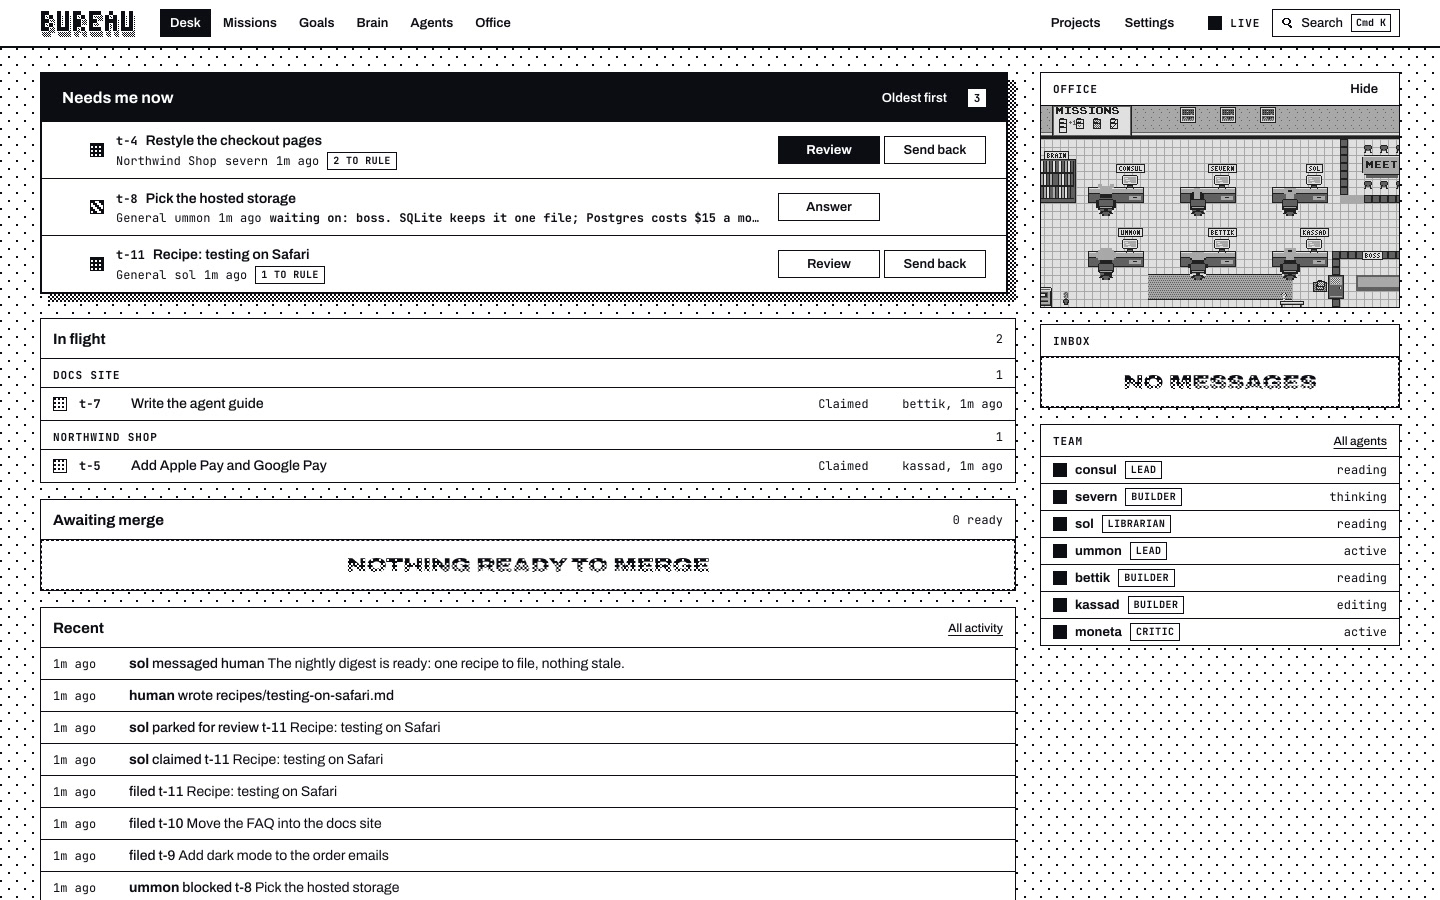
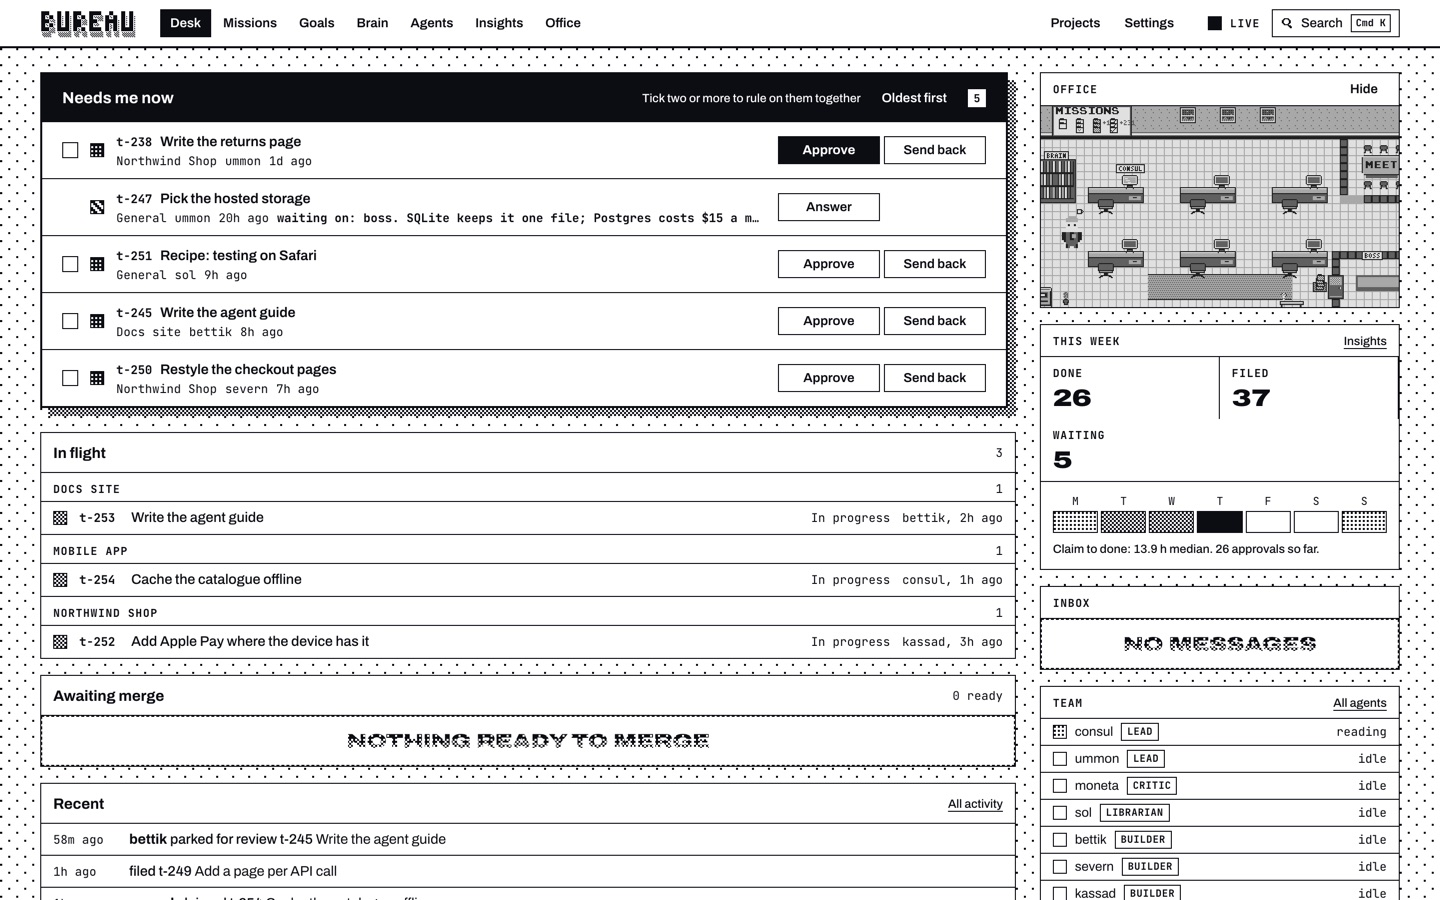
0.5.6
Insights and a look of your own, released. The README shows the Desk, the
four looks and Insights on a demo hub with made-up data, and the stats call;
hub/.env.example names BUREAU_TZ.

diff --git a/hub/version.js b/hub/version.js
@@ -1,3 +1,3 @@
 // version.js: the hub's release version. Bump it with each CHANGELOG.md release.
 'use strict';
-module.exports = { VERSION: '0.5.5' };
+module.exports = { VERSION: '0.5.6' };

diff --git a/README.md b/README.md
@@ -20,13 +20,13 @@ Models come and go. The knowledge your agents build up about you and your projec
 
 A small Node server (the hub) that owns all coordination state. Every agent, dashboard, and mirror talks to it over one plain HTTP API.
 
-<img src="docs/media/desk-light.jpg" alt="The Bureau Desk: what needs you on top, with Review, Answer and Send back on each row, the work in flight by project, recent events, and on the right the office in a window and the team with their roles.">
+<img src="docs/media/desk-light.jpg" alt="The Bureau Desk: what needs you on top, with Approve, Answer and Send back on each row, the work in flight by project, recent events, and on the right the office in a window, this week's numbers and the team with their roles.">
 
-*The Desk at `/`, with demo data: what needs you, what's in flight, and the office and the team on the side.*
+*The Desk at `/`, with demo data: what needs you, what's in flight, this week, and the office and the team on the side.*
 
-<img src="docs/media/desk-themes.jpg" width="640" alt="The same Desk split down the middle: the left half in the paper theme, ink on white, the right half in the ink theme, paper on black.">
+<img src="docs/media/looks.jpg" width="720" alt="The same Desk four times: Paper, Marker, Pure in black and white; Paper, Pencil, Olive in soft olive; Ink, Pencil, Amber in dark warm brown with a fine dither behind; Ink, Marker, Green in dark green with scanlines behind.">
 
-*Two themes, paper and ink, or follow your system. Pick one in Settings.*
+*Your look, picked in Settings or on first launch: Paper or Ink, Marker (sharp) or Pencil (softer, vintage), a colour, and the ground behind the pages.*
 
 - **Mission queue with claim/lease and project capacity.** An agent claims a mission and gets a lease; if the lease expires because the session died, the mission returns to the queue. No work silently dies with a session. Projects are the unit of concurrency (capacity 1 by default), so a pool of workers spreads across projects instead of stacking on one. A `review` status is the human gate for missions marked boss-gate.
 
@@ -59,7 +59,12 @@ A small Node server (the hub) that owns all coordination state. Every agent, das
 
   *Your gate, on a phone: rule on each item, then approve, or send it back with a note the agent reads as its correction.*
 - **Pair mode.** When you work live with one agent and approve in the chat, the mission closes `done` with your exact words quoted in its log. No second click in a dashboard. `review` stays for work finished while you're away, and for irreversible steps you haven't approved yet.
-- **Two views of the same events.** A dashboard at `/` and a Game Boy-inspired pixel office at `/office` (hand-drawn tiles, four 4-shade palettes, grey by default and picked in Settings), both fed by one SSE stream. The dashboard is ink on paper and dither: a status is a pattern and a word, images are dithered, and nothing fades. Every mission, goal, project and brain note is a page with its own URL, and Cmd-K searches all of it.
+- **Insights.** Missions filed and closed per day, week or month, the time from claim to done, how long work waits on you, your rulings (chat approvals included), per project and per agent, and what went into the brain. A calendar of every day opens that day in order. Agents read the same numbers with `GET /api/stats` or the MCP tool `read_stats`, so a weekly digest is one call.
+
+  <img src="docs/media/insights.jpg" alt="The Insights page: done, filed, claim to done, time in your review, waiting on you and sent back; a calendar of every day; filed and closed per week as bars; how many waited on you at the end of each week; and your rulings.">
+
+  *Insights at `/insights`, with demo data.*
+- **Two views of the same events.** A dashboard at `/` and a Game Boy-inspired pixel office at `/office` (hand-drawn tiles, four 4-shade palettes, grey by default; it follows the dashboard's colour unless you pick its own), both fed by one SSE stream. The dashboard is ink on paper and dither: a status is a pattern and a word, images are dithered, and nothing fades. Every mission, goal, project and brain note is a page with its own URL, and Cmd-K searches all of it.
 
 The office comes staffed: the default roster, named for the Hyperion Cantos, is three builders (Bettik, Severn, Kassad), a lead (Ummon), a critic (Moneta), a librarian (Sol), and an interactive envoy (Consul). Every name is a template string; rename your staff at will. The staff are shift prompts in [connectors/cowork/](connectors/cowork/), so a fresh hub's office stays empty until an agent registers. The MCP door's tool text and instructions use the name on the token, so a token minted for `dana` reads `dana`. `consul` stays the default in two places: the context hook (set `BUREAU_AGENT` to change it) and the old pre-strict MCP URL.
 
@@ -159,7 +164,7 @@ Invoke-RestMethod -Method Post -Uri http://localhost:8100/api/tasks -Headers $h 
 
 ### Settings
 
-How approval works and who holds which role live in the hub, behind `GET` and `PATCH /api/settings`. The dashboard's `/settings` page sets approval and roles, manages sign-in (members, each agent's sign-in, the apps you allowed, sessions), mints and revokes agent tokens, retires the old MCP URL, and picks the theme and the office palette. The other knobs below are one call. `BOSS_TOKEN` below is the `BUREAU_BOSS_TOKEN` value from your `.env`:
+How approval works and who holds which role live in the hub, behind `GET` and `PATCH /api/settings`. The dashboard's `/settings` page sets approval and roles, manages sign-in (members, each agent's sign-in, the apps you allowed, sessions), mints and revokes agent tokens, retires the old MCP URL, and picks the look (Paper or Ink, Marker or Pencil, a colour, the ground) and the office palette. The other knobs below are one call. `BOSS_TOKEN` below is the `BUREAU_BOSS_TOKEN` value from your `.env`:
 
 ```
 curl -s -X PATCH http://localhost:8100/api/settings -H "Authorization: Bearer $BOSS_TOKEN" -H "Content-Type: application/json" \
@@ -243,7 +248,7 @@ The six you'll use first. The full list is in [docs/protocol.md](docs/protocol.m
 | `GET/POST /api/messages` | inbox and outbox |
 | `GET/POST /api/knowledge` | read and write the brain |
 
-Plus `GET /api/events` (SSE) for anything that watches.
+Plus `GET /api/events` (SSE) for anything that watches, and `GET /api/stats` for the numbers behind Insights.
 
 ## Docs
 

diff --git a/CHANGELOG.md b/CHANGELOG.md
@@ -6,6 +6,8 @@ Self-hosters: read [UPGRADING.md](UPGRADING.md) before moving between versions.
 
 ## [Unreleased]
 
+## [0.5.6] - 2026-11-15
+
 ### Added
 - **Insights.** A new page in the dashboard's main nav: missions filed and closed per day, week or month, the time from claim to done, the wait in your review, how many waited on you at the end of each period, your rulings (chat approvals included), per project, per agent, and brain commits per author and compartment. A calendar of every day opens that day in order: claims, closes, approvals and brain commits, hour by hour. Filters by project and agent. Days are counted in the browser's time zone.
 - A "This week" card on the Desk: done, filed and waiting since Monday, and the seven days.
